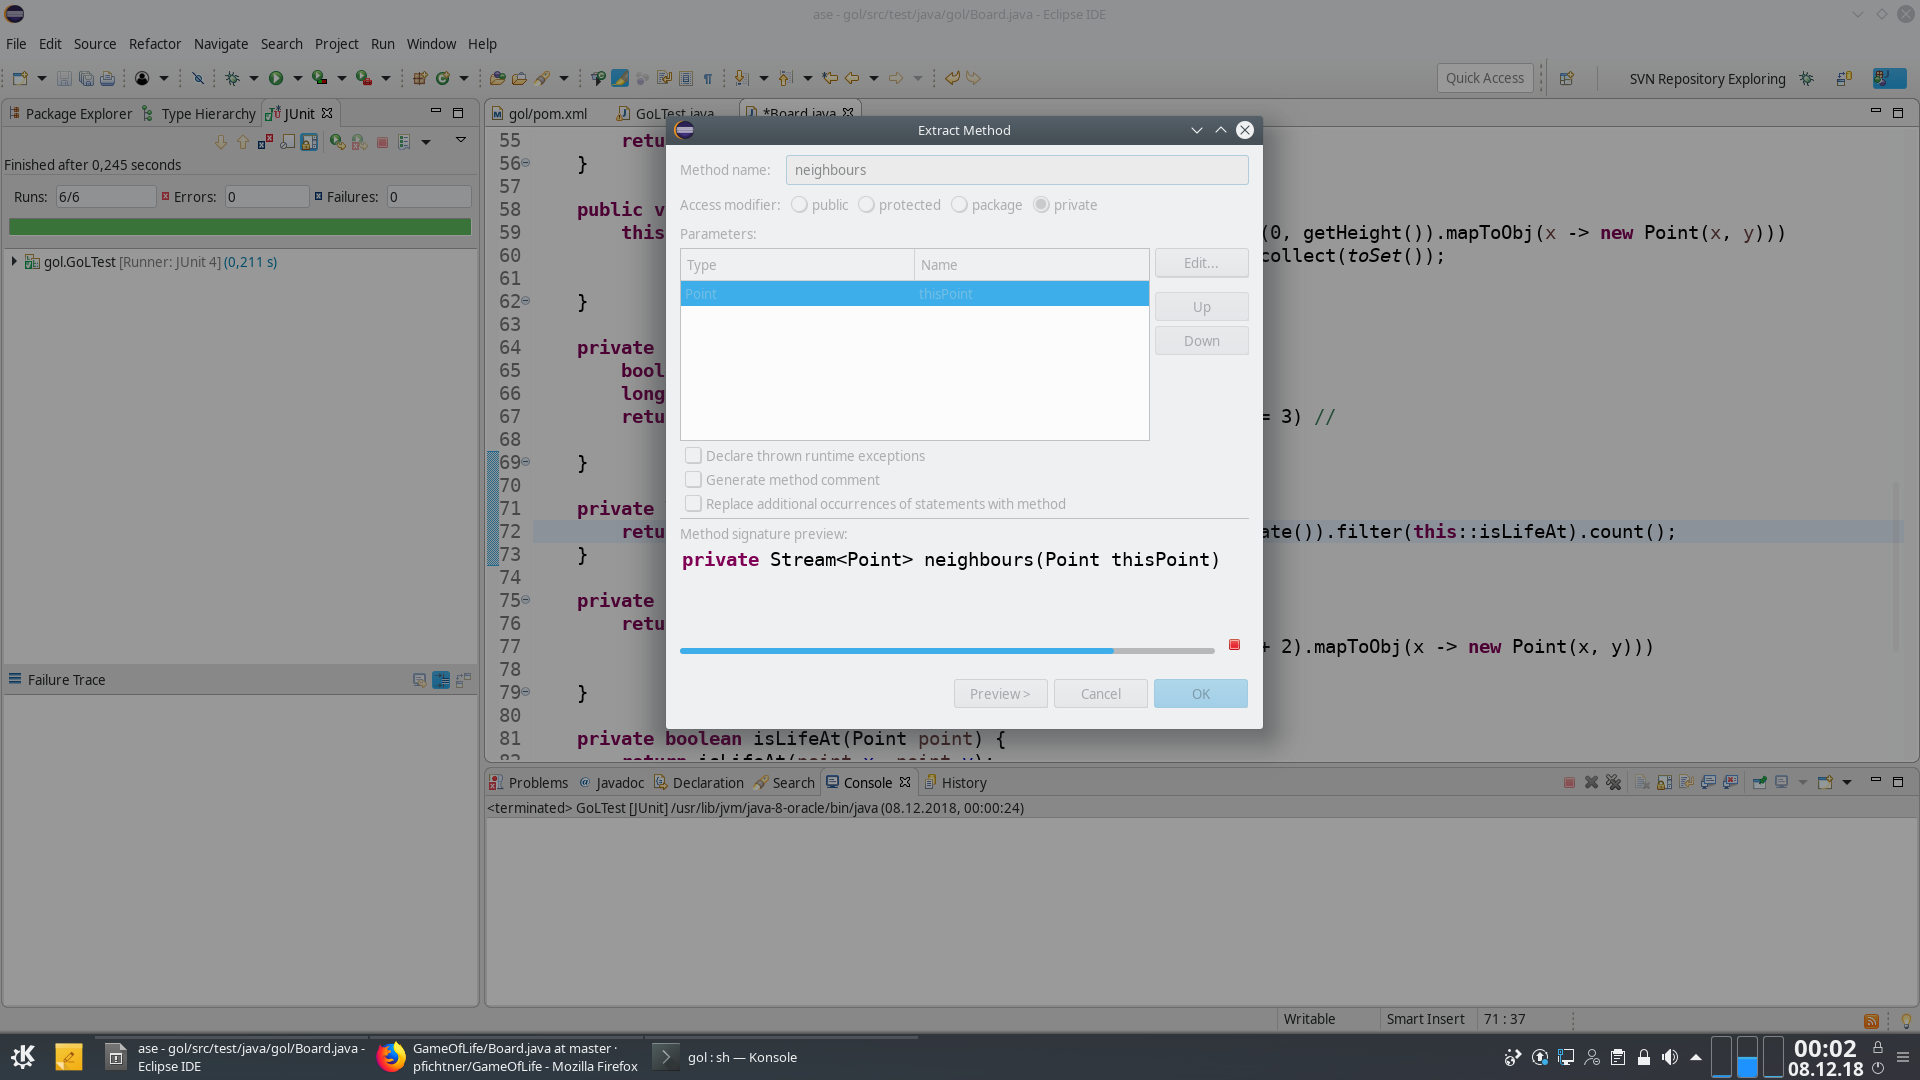
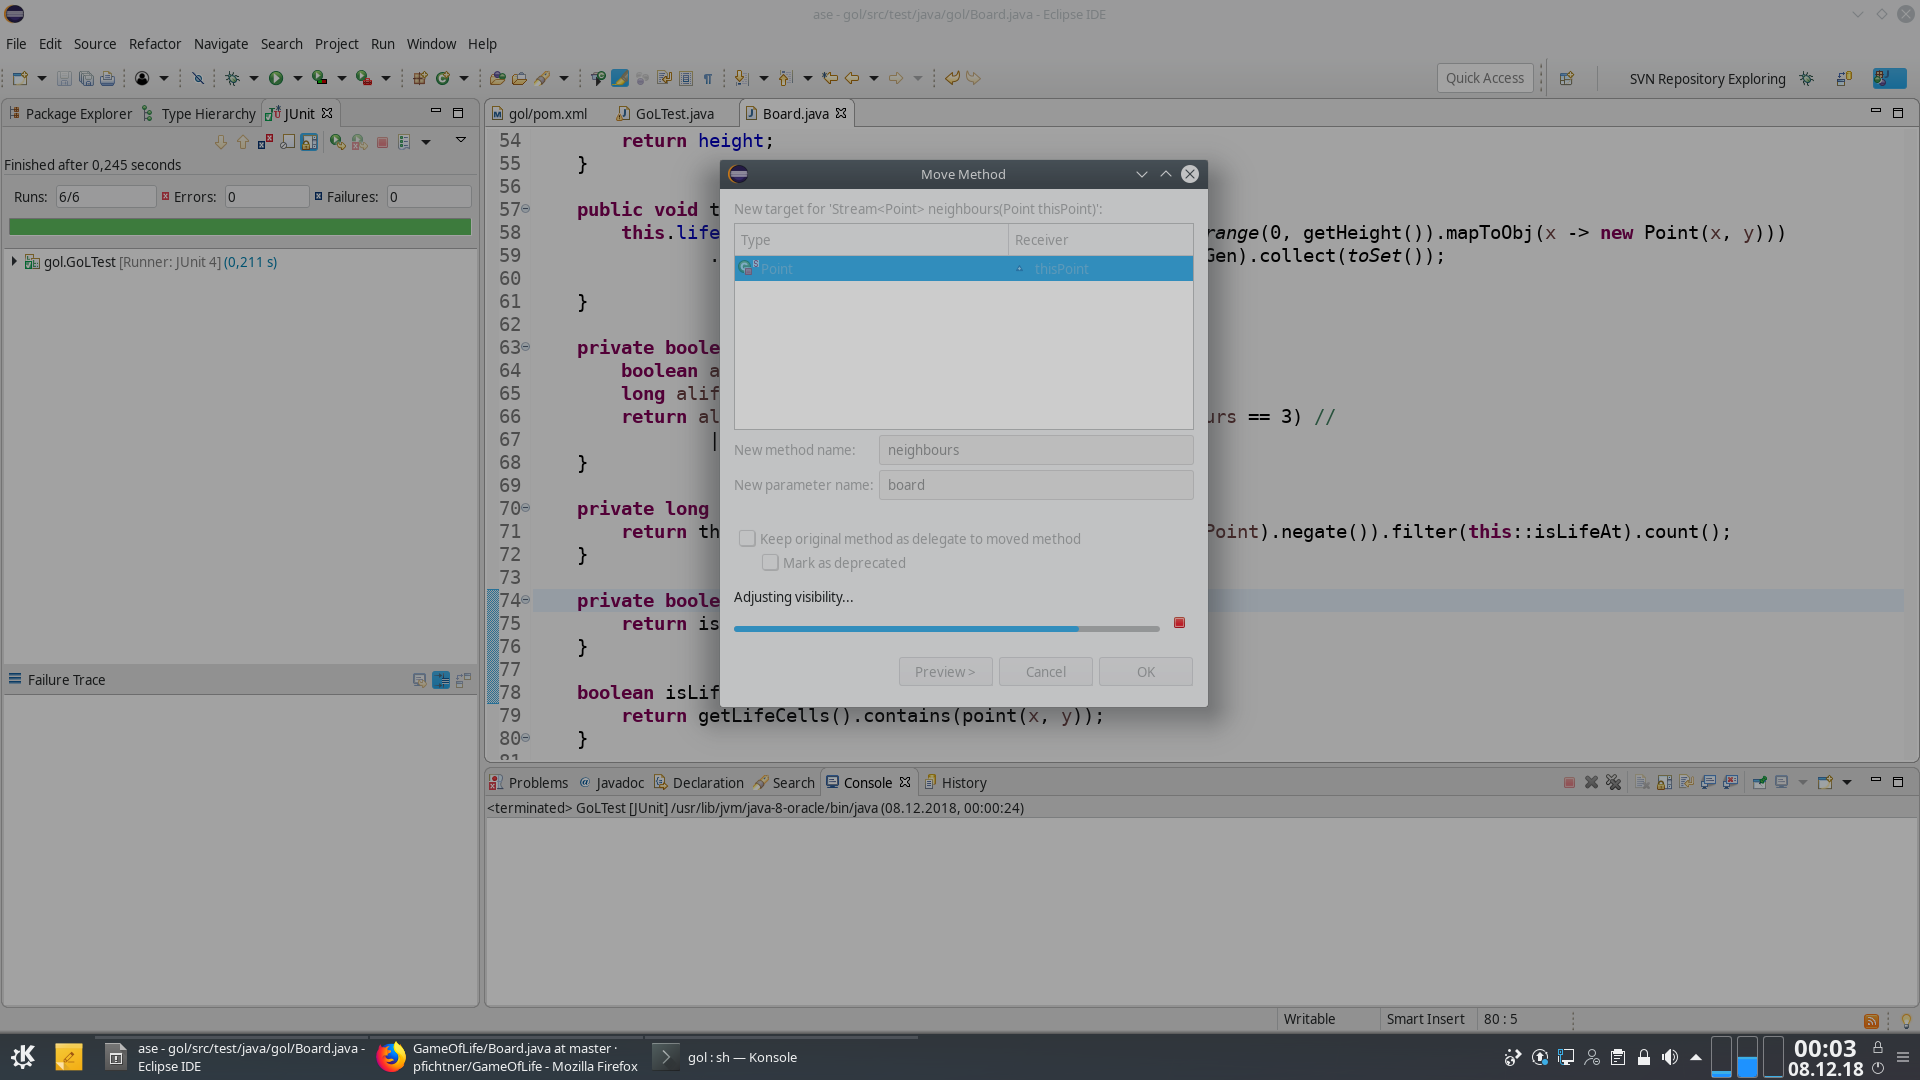
autocommit on change

Changed region(s): [[0.3125, 0.0917, 0.875, 0.7028], [0.25, 0.55, 0.2812, 0.6722], [0.25, 0.3972, 0.2812, 0.5194]]

diff --git a/src/test/java/gol/Board.java b/src/test/java/gol/Board.java
@@ -11,7 +11,7 @@ import java.util.stream.Stream;
 
 public class Board {
 
-	private static class Point {
+	static class Point {
 
 		private int x, y;
 
@@ -29,6 +29,12 @@ public class Board {
 		public boolean equals(Object obj) {
 			Point other = (Point) obj;
 			return other.x == x && other.y == y;
+		}
+
+		Stream<Point> neighbours(Board board) {
+			return range(y - 1, y + 2)
+					.mapToObj(y -> range(x - 1, x + 2).mapToObj(x -> new Point(x, y)))
+					.flatMap(identity());
 		}
 
 	}
@@ -68,13 +74,7 @@ public class Board {
 	}
 
 	private long alifeNeighbours(Point thisPoint) {
-		return neighbours(thisPoint).filter(isEqual(thisPoint).negate()).filter(this::isLifeAt).count();
-	}
-
-	private Stream<Point> neighbours(Point thisPoint) {
-		return range(thisPoint.y - 1, thisPoint.y + 2)
-				.mapToObj(y -> range(thisPoint.x - 1, thisPoint.x + 2).mapToObj(x -> new Point(x, y)))
-				.flatMap(identity());
+		return thisPoint.neighbours(this).filter(isEqual(thisPoint).negate()).filter(this::isLifeAt).count();
 	}
 
 	private boolean isLifeAt(Point point) {
